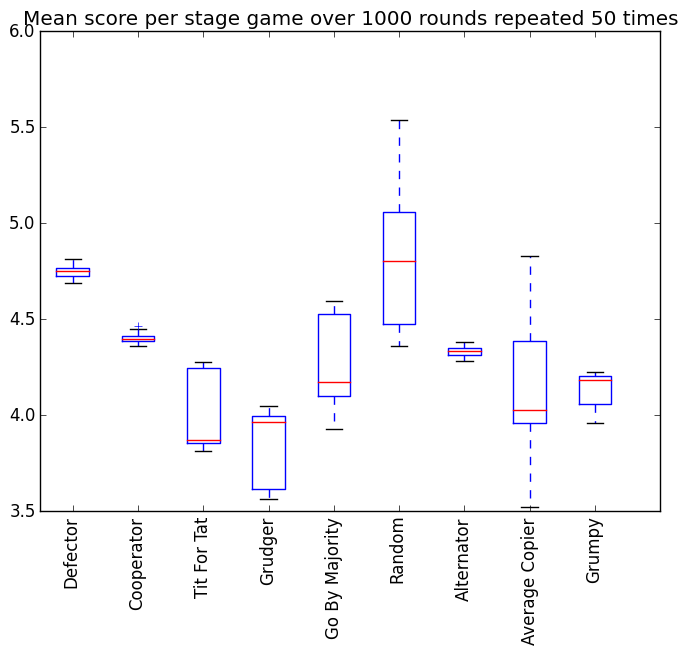
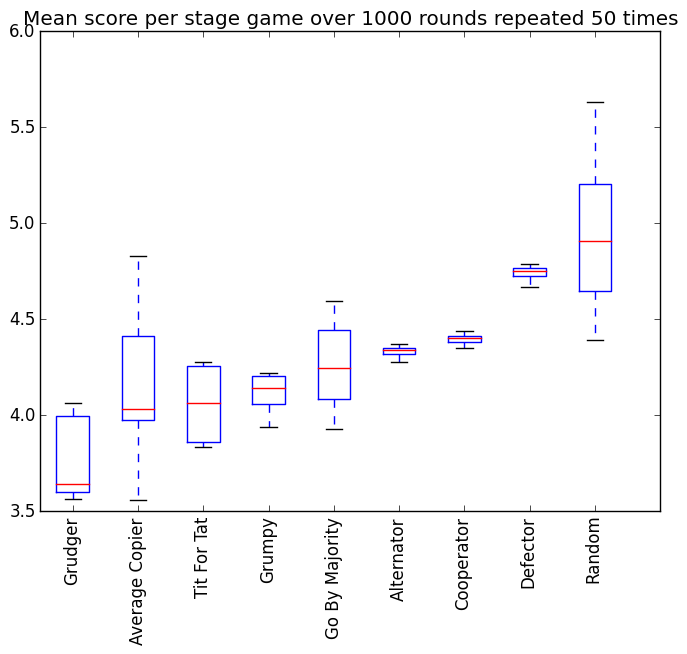
Sorting the axis for the plot

diff --git a/run_tournament.py b/run_tournament.py
@@ -4,6 +4,7 @@ A script to run the Axelrod tournament using all the strategies present in `axel
 from __future__ import division
 import axelrod
 import matplotlib.pyplot as plt
+from numpy import median
 
 turns = 1000  # Number of turns in the round robin tournament
 repetitions = 50  # Number of repetitions of the tournament
@@ -11,8 +12,9 @@ repetitions = 50  # Number of repetitions of the tournament
 strategies = [strategy() for strategy in axelrod.strategies]
 axelrod = axelrod.Axelrod(*strategies)
 results = axelrod.tournament(turns=turns, repetitions=repetitions)
+players = sorted(axelrod.players, key = lambda x: median(results[x]))
 
-plt.boxplot([[score / turns for score in results[player]] for player in axelrod.players])
-plt.xticks(range(1, len(axelrod.players) + 2), [str(p) for p in axelrod.players], rotation=90)
+plt.boxplot([[score / turns for score in results[player]] for player in players])
+plt.xticks(range(1, len(axelrod.players) + 2), [str(p) for p in players], rotation=90)
 plt.title('Mean score per stage game over {} rounds repeated {} times'.format(turns, repetitions))
 plt.savefig('results.png', bbox_inches='tight')
